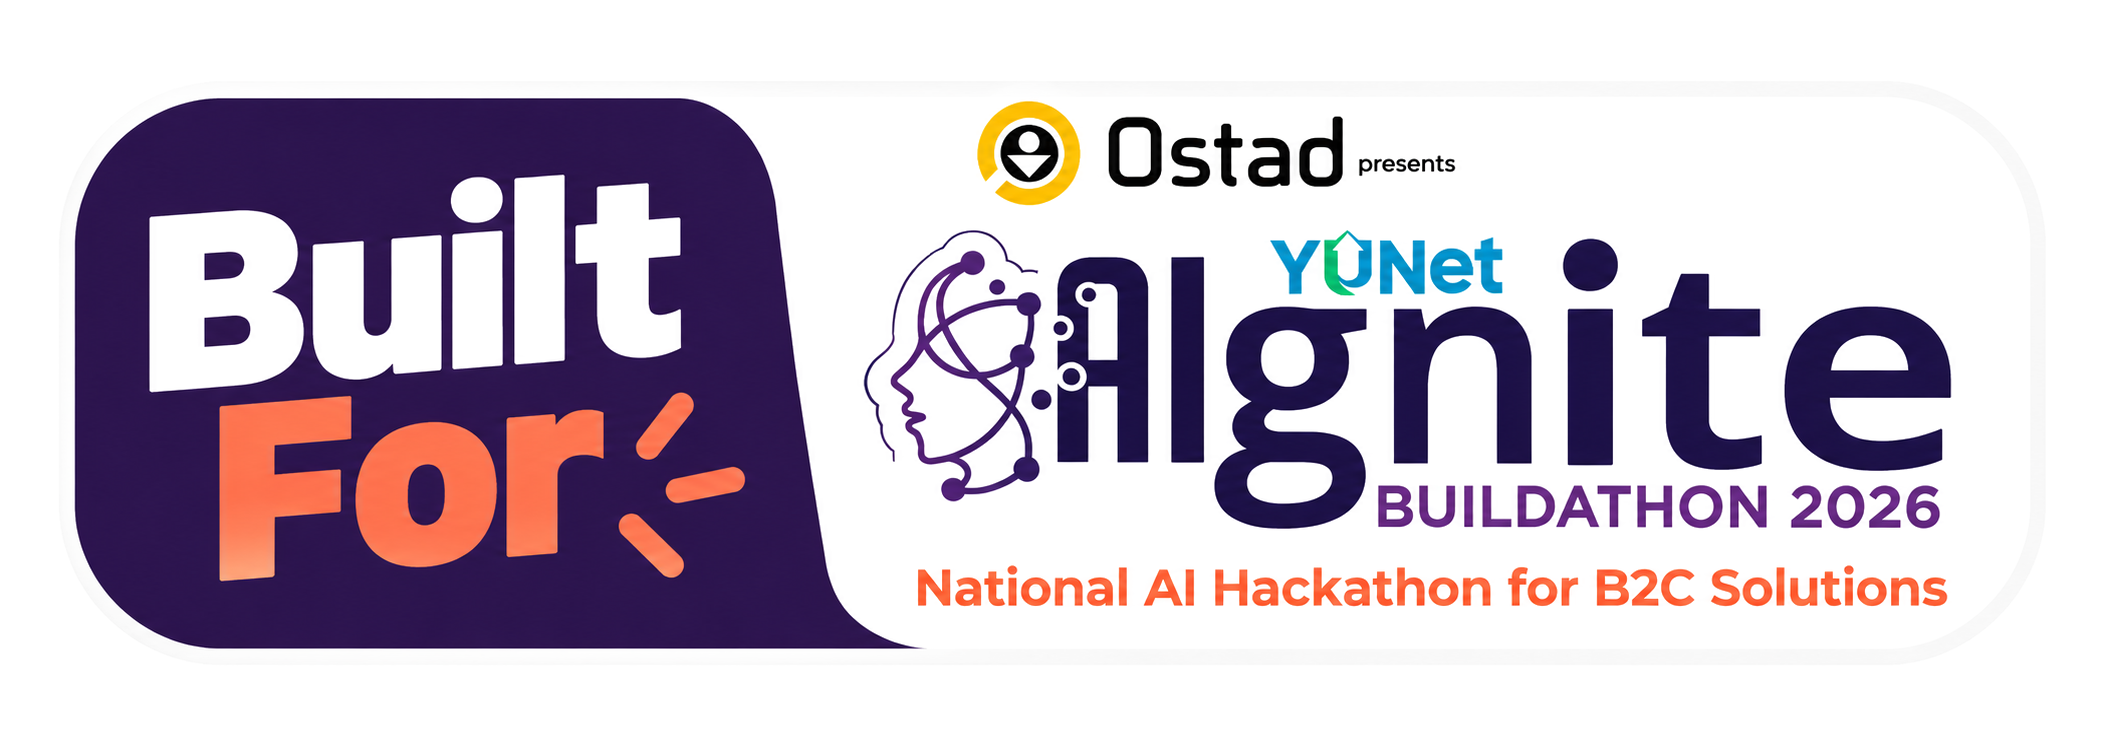
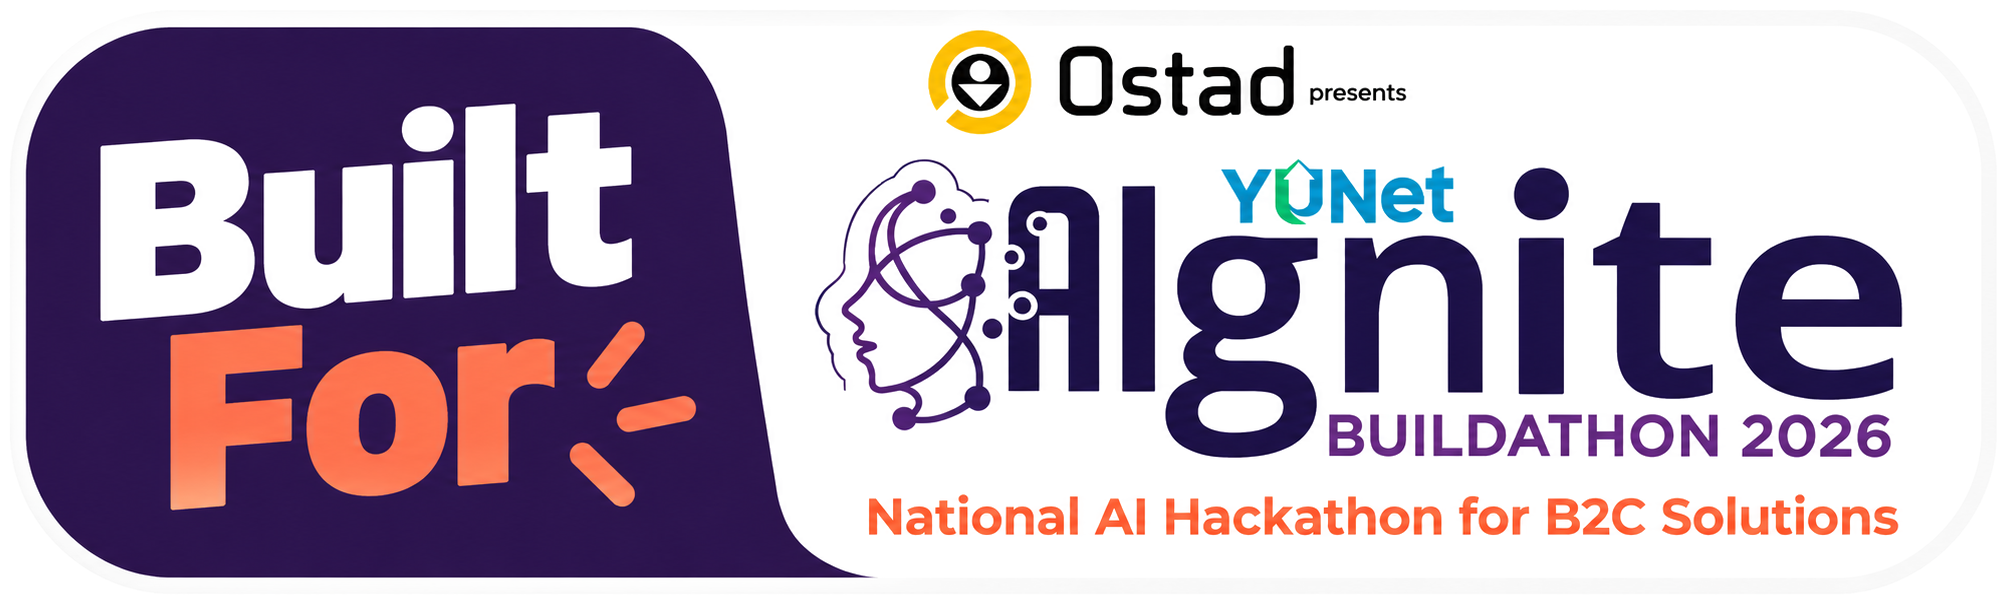
Enlarge and crop AIgnite 2026 navbar sticker for visibility

diff --git a/frontend/src/styles/navigation.css b/frontend/src/styles/navigation.css
@@ -43,7 +43,7 @@
 .brand-title-wrap {
   display: inline-flex;
   align-items: center;
-  gap: 8px;
+  gap: 12px;
   vertical-align: middle;
 }
 
@@ -58,9 +58,9 @@
 }
 
 .brand-sticker {
-  height: 22px;
+  height: 36px;
   width: auto;
-  max-height: 1.4rem;
+  max-height: 40px;
   object-fit: contain;
   display: inline-block;
   flex-shrink: 0;
@@ -68,9 +68,20 @@
   vertical-align: middle;
 }
 
-@media (max-width: 480px) {
+@media (max-width: 640px) {
   .brand-sticker {
-    height: 18px;
+    height: 28px;
+  }
+}
+
+@media (max-width: 480px) {
+  .brand-title-wrap {
+    gap: 8px;
+    flex-wrap: wrap;
+  }
+
+  .brand-sticker {
+    height: 24px;
   }
 }
 
